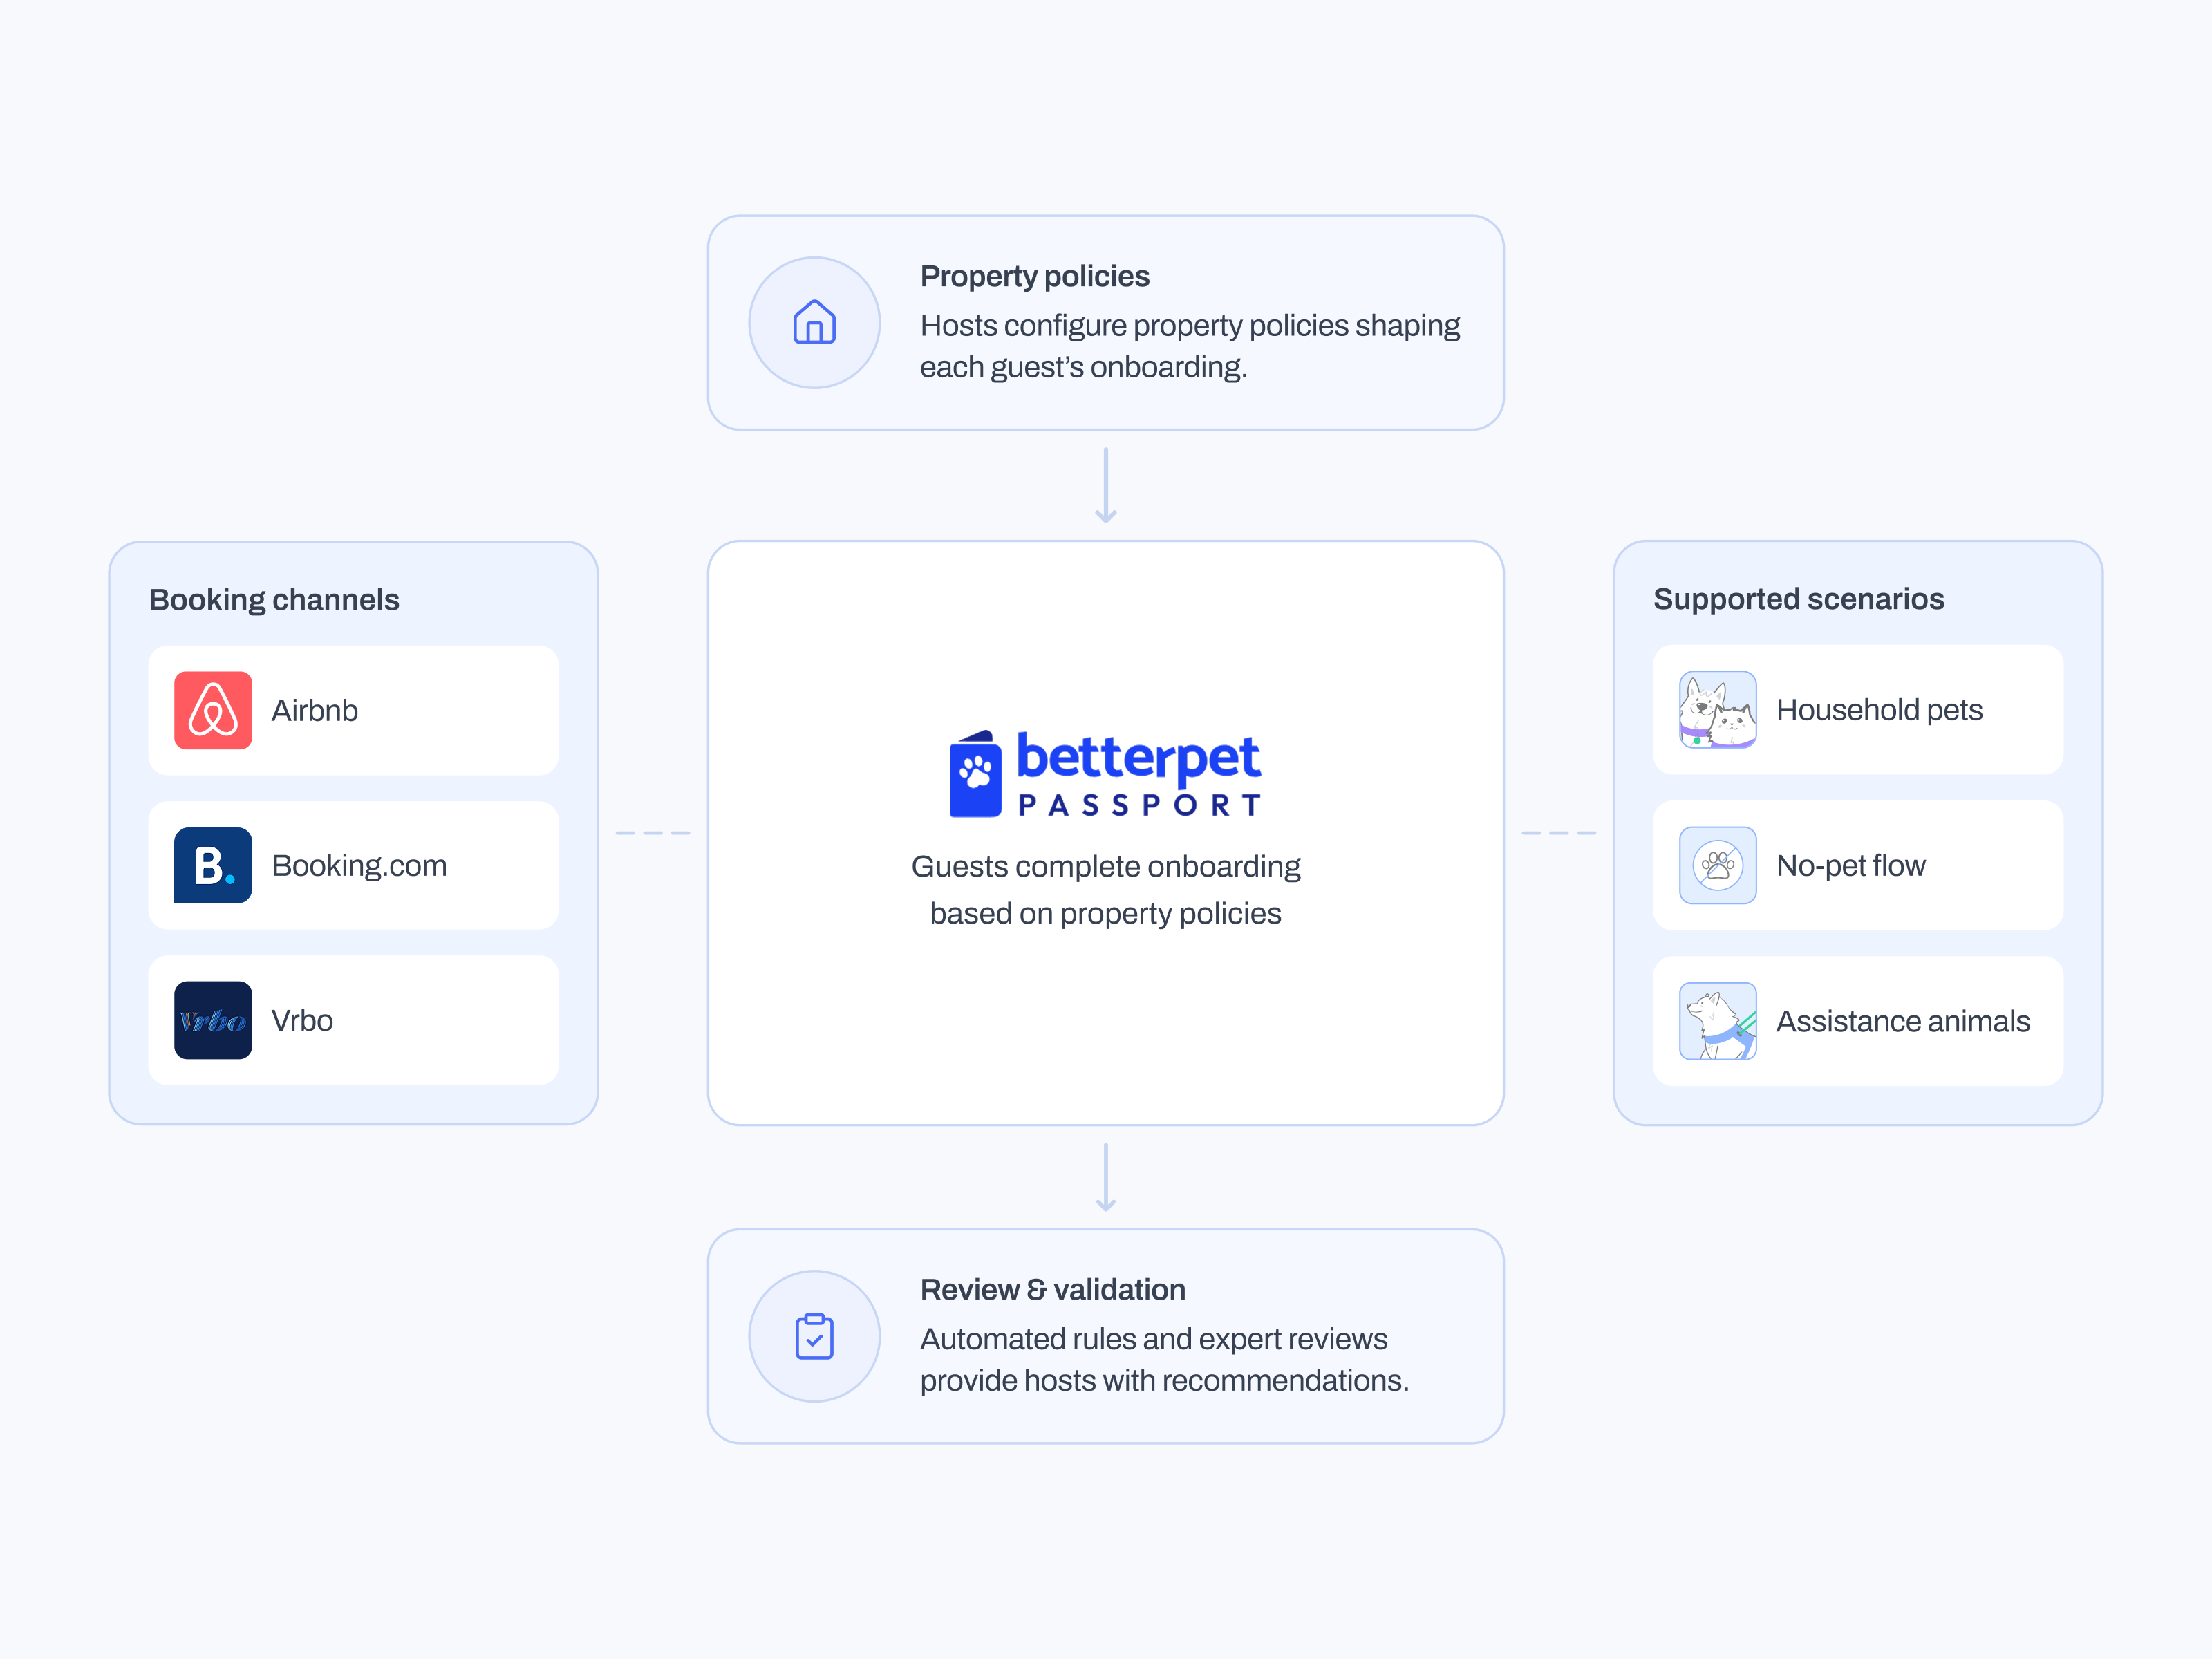
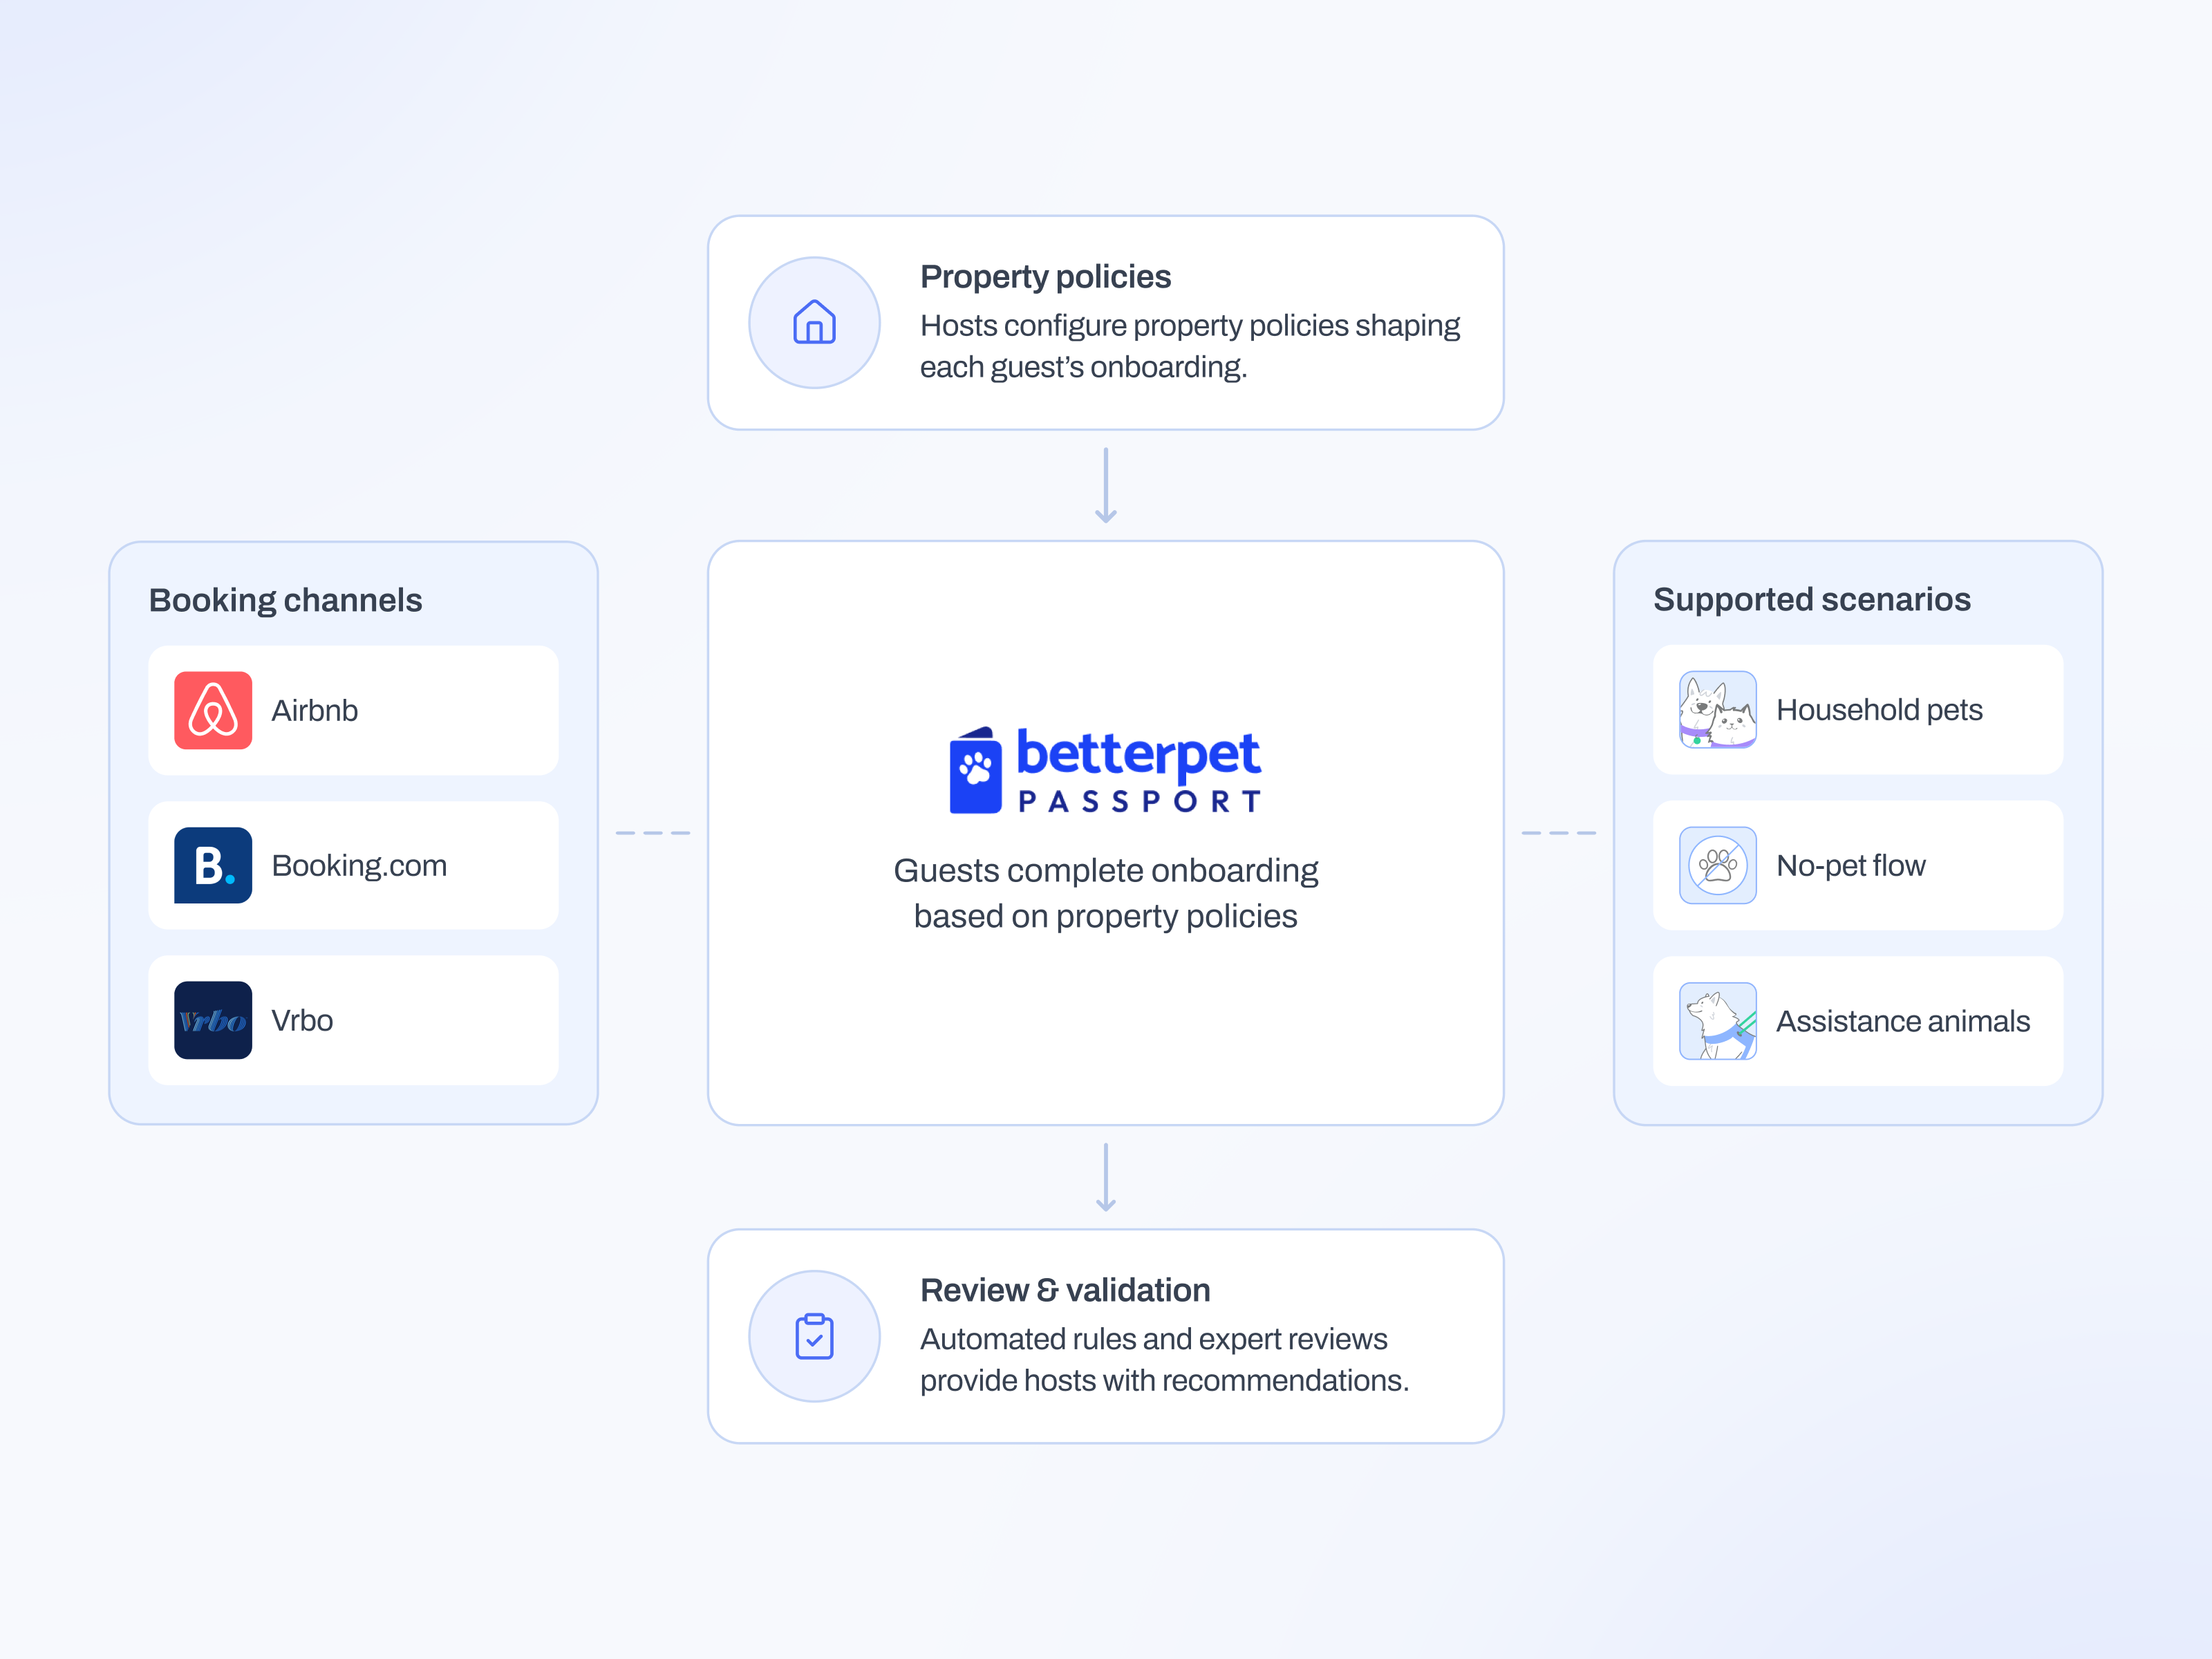
Update case study image exports and add Solution diagram
Replace the latest problem-context, approach dashboard, and approach
diagram exports. Wire up a new solution.png in the Solution section,
matching the existing image container treatment used elsewhere.

diff --git a/src/app/work/[slug]/page.tsx b/src/app/work/[slug]/page.tsx
@@ -285,7 +285,20 @@ export default async function CaseStudyPage({
               </div>
             </div>
             <div className="md:flex md:items-center">
-              <ImagePlaceholder height="h-[240px] md:h-[320px] lg:h-[380px]" gradient={project.accent} />
+              {project.solution.image ? (
+                <div className="relative w-full aspect-[4/3] rounded-xl md:rounded-2xl overflow-hidden border border-slate-700">
+                  <Image
+                    src={project.solution.image}
+                    alt={`${project.title} solution diagram`}
+                    fill
+                    className="object-contain"
+                    sizes="(min-width: 768px) 50vw, 100vw"
+                    quality={90}
+                  />
+                </div>
+              ) : (
+                <ImagePlaceholder height="h-[240px] md:h-[320px] lg:h-[380px]" gradient={project.accent} />
+              )}
             </div>
           </div>
         </section>

diff --git a/src/lib/projects.ts b/src/lib/projects.ts
@@ -29,6 +29,7 @@ export type Project = {
   solution: {
     heading: string;
     body: string;
+    image?: string;
   };
   decisionsIntro: string;
   decisions: { title: string; description: string }[];
@@ -117,6 +118,7 @@ export const projects: Project[] = [
       heading: "Designing for flexibility without increasing complexity",
       body:
         "Rather than designing a single onboarding flow, I focused on creating a flexible experience that could adapt to each property's policies while remaining predictable and easy to complete.\n\nInformation was progressively revealed based on each guest's scenario, reducing unnecessary questions and helping users understand exactly what was required before submitting their request.\n\nThe experience supported multiple journeys, including guests traveling with pets, without pets, or with assistance animals, while keeping the overall flow simple, consistent, and easy to navigate.",
+      image: "/projects/betterpet-passport/solution.png",
     },
     decisionsIntro:
       "Each decision addressed a different source of friction across the guest journey, making the experience easier to understand, complete, and navigate with confidence.",